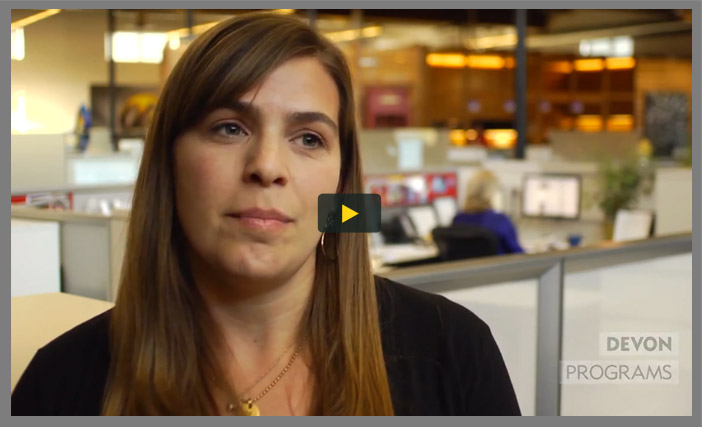
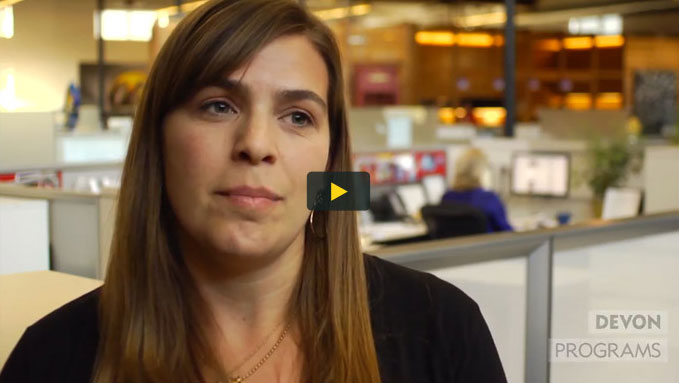
updates to videos

diff --git a/index.html b/index.html
@@ -131,13 +131,12 @@
 								<p><a class="sentinelblackitalic yellow" style="text-decoration: underline;" href="" id="watch-sarahs-video">Watch Sarah's Video</a></p>
 							</div>
 							</span>
-							<div id="sarahs-video-wrap">
-								<div class="video-wrap">
-									<a href="#" class="" id="sarah-video"><img src="img/sarah-thumb.jpg" alt="" /></a>
+								<div id="sarahs-video-wrap">
+									<div class="video-wrap">
+									<a href="#" id="sarah-video"><img src="img/sarah-thumb.jpg" class="video-thumb" alt="" /></a>
 									<div class="video-container" style="display: none;"></div>
 									<h3 class="sentinelblackitalic yellow"><span class="mreavessansbold">SARAH</span><br /><span class="mreavessansreg">two-time breast cancer survivor </span><br /><br />“I was afraid cancer meant I couldn’t have children.”</h3>
 								</div>
-							</div>
 			        	</li>
 
 				        <li class="slide-two black-overlay">
@@ -341,9 +340,13 @@
 				        </li>
 						<li class="slide-two">
 							<div class="relative">
-								<h3 class="sentinelblackitalic fleft"><span class="mreavessansbold caps">Devon</span><br /><span class="mreavessansreg">Programs at the Foundation</span><br /><br />“Cancer happens to the whole person... It happens to your spirit, emotionally. It happens to your mind, mentally. It happens to your families and communities, socially. There have to be ways to help the whole person heal, not just the physical. And that’s what our programs can do.”</h3>
-								<a href="#" class="video-thumb fleft" id="devon-video"><img src="img/devon-thumb.jpg" style="max-width: 100%;" alt="" /></a>
-								<div class="video-container fleft"></div>
+								<h3 class="sentinelblackitalic"><span class="mreavessansbold caps">Devon</span><br /><span class="mreavessansreg">Programs at the Foundation</span><br /><br />“Cancer happens to the whole person... It happens to your spirit, emotionally. It happens to your mind, mentally. It happens to your families and communities, socially. There have to be ways to help the whole person heal, not just the physical. And that’s what our programs can do.”</h3>
+								<div id="devon-video-wrap">
+								<div class="video-wrap">
+									<a href="#" id="devon-video"><img src="img/devon-thumb.jpg" alt="" /></a>
+									<div class="video-container" style="display: none;"></div>
+								</div>
+								</div>
 								<div style="clear: both;"></div>
 							</div>			
 				        </li>
@@ -815,7 +818,7 @@
 				$(this).hide();
 				if (!window.isMobile()) { setTimeout(function() { $('#navigationservices .slide-two .text-block').animate({opacity: 0.3}, 1700); }, 500); }
 				$('#navigationservices .slide-two .video-container').height(videoHeight).width(videoWidth).show();
-			    $('#navigationservices .slide-two .video-container').html('<span id="melissa-close" class="close-white"></span><iframe src="http://www.youtube.com/embed/LsAMPXe8lrI?autohide=1&autoplay=1&controls=2&rel=0&showinfo=0&iv_load_policy=3&theme=light" width="320" height="240" frameborder="0" allowfullscreen="true">').css('background', 'none');
+			    $('#navigationservices .slide-two .video-container').html('<div id="melissa-close" class="close-white"></div><iframe src="http://www.youtube.com/embed/LsAMPXe8lrI?autohide=1&autoplay=1&controls=2&rel=0&showinfo=0&iv_load_policy=3&theme=light" width="320" height="240" frameborder="0" allowfullscreen="true">').css('background', 'none');
 			$('#melissa-close').on('click', function(event) {				
 				$('#navigationservices .slide-two .video-container').html('').hide();
 				$('#melissa-video').show();
@@ -830,13 +833,32 @@
 				$(this).hide();
 				if (!window.isMobile()) { setTimeout(function() { $('#program .slide-two .text-block').animate({opacity: 0.3}, 1700); }, 500); }
 				$('#program .slide-two .video-container').height(videoHeight).width(videoWidth).show();
-			    $('#program .slide-two .video-container').html('<span id="tara-close" class="close-black"></span><iframe src="http://www.youtube.com/embed/LsAMPXe8lrI?autohide=1&autoplay=1&controls=2&rel=0&showinfo=0&iv_load_policy=3&theme=light" width="320" height="240" frameborder="0" allowfullscreen="true">').css('background', 'none');
+			    $('#program .slide-two .video-container').html('<div id="tara-close" class="close-black"></div><iframe src="http://www.youtube.com/embed/CZPPk24x3K4?autohide=1&autoplay=1&controls=2&rel=0&showinfo=0&iv_load_policy=3&theme=light" width="320" height="240" frameborder="0" allowfullscreen="true">').css('background', 'none');
 			$('#tara-close').on('click', function(event) {				
 				$('#program .slide-two .video-container').html('').hide();
 				$('#tara-video').show();
 				if (!window.isMobile()) { setTimeout(function() { $('#program .slide-two .text-block').animate({opacity: 1.0}, 1700); }, 500); }
 			});
 			});
+			
+			
+			$('#devon-video').on('click', function(event) {
+				event.preventDefault();
+				var videoHeight = $('#devon-video img').height();
+				var videoWidth = $('#devon-video img').width();
+				$(this).hide();
+				if (!window.isMobile()) { setTimeout(function() { $('#impact .slide-two h3').animate({opacity: 0.3}, 1700); }, 500); }
+				$('#impact .slide-two .video-container').height(videoHeight).width(videoWidth).show();
+			    $('#impact .slide-two .video-container').html('<div id="devon-close" class="close-black"></div><iframe src="http://www.youtube.com/embed/DKUAj6BZoJQ?autohide=1&autoplay=1&controls=2&rel=0&showinfo=0&iv_load_policy=3&theme=light" width="320" height="240" frameborder="0" allowfullscreen="true">').css('background', 'none');
+			$('#devon-close').on('click', function(event) {				
+				$('#impact .slide-two .video-container').html('').hide();
+				$('#devon-video').show();
+				if (!window.isMobile()) { setTimeout(function() { $('#impact .slide-two h3').animate({opacity: 1.0}, 1700); }, 500); }
+			});
+			});
+			
+			
+			
 			
 			
 			$('#iram-video').on('click', function(event) {
@@ -917,13 +939,7 @@
 			});
 
 			
-			
-			$('#devon-video').on('click', function(event) {
-				event.preventDefault();
-				$(this).hide();
-				$('#impact .slide-two .video-container').show();
-			    $('#impact .slide-two .video-container').html('<iframe src="http://www.youtube.com/embed/DKUAj6BZoJQ?autohide=1&autoplay=1&controls=2&rel=0&showinfo=0&iv_load_policy=3&theme=light" width="320" height="240" frameborder="0" allowfullscreen="true">').css('background', 'none');
-			});
+		
 		</script>
 		
 		<!--Stick Nav on Scroll-->

diff --git a/css/main.css b/css/main.css
@@ -305,16 +305,16 @@ li.fin { width: 60px; }
 #navigationservices { background: #000; }
 #navigationservices .gallery { min-height: 425px; background: #000; }
 #navigationservices .slide-one { background: #000; color: #fff;  }
-#navigationservices .slide-one .text-block { width: 380px; float: right; padding-right: 31.25%; /*400 / 1280*/ }
+#navigationservices .slide-one .text-block { width: 380px; display: inline-block; vertical-align: top; padding-right: 31.25%; /*400 / 1280*/ }
 #navigationservices .slide-one .text-block p { font-size: .8725em; margin-bottom: 15px; }
-#navigationservices .slide-one #proof-people { float: left; margin-top: 88px; margin-bottom: 50px;  max-width: 100%;}
+#navigationservices .slide-one #proof-people {  max-width: 100%; display: inline-block; vertical-align: top; margin-right: 5%; margin-top: 20px; }
 #navigationservices .slide-one #sarah { margin-top: 40px; position: absolute; right: 0; max-width: 100%; }
 #navigationservices .slide-one h1 { font-size: 1.5em; line-height: 1.3; }
 #navigationservices ul.normal li { font-size: .8275em; }
 #navigationservices .slide-one, #navigationservices .slide-two,  #navigationservices .slide-three,  #navigationservices .slide-four, #navigationservices .slide-five { padding-top: 100px; height: 525px; }
 
 #navigationservices .slide-two .text-block { width: 26.5625%; /*340 / 1280*/ padding-left: 5.46875%; /*70 / 1280*/ padding-right: 5.46875%; /*70 / 1280*/ }
-#navigationservices .slide-two .text-block p {font-size: .8725em;}
+#navigationservices .slide-two .text-block p {font-size: .8725em; width: 90%;}
 #navigationservices .slide-two .text-block ul {font-size: 1.5em; line-height: 2;}
 #navigationservices .slide-two h3 { font-size: .8275em; line-height: 1.3; font-weight: normal; text-align: left; margin-top: 30px; width: 185px; }
 #navigationservices .slide-two #melissa-thumb { max-width: 54%; margin-right: 7.8125%; /*100 / 1280*/  }
@@ -365,7 +365,6 @@ li.fin { width: 60px; }
 
 #impact .slide-two .relative { margin: 0 auto; }
 #impact .slide-two h3 { width: 255px; font-size: .8275em; line-height: 1.3; font-weight: normal; text-align: left; position: absolute; bottom: 0; left: 4.859375%; /*75 / 1280*/ }
-#impact .slide-two .video-thumb, #impact .slide-two .video-container { margin-left: 30.46875%; /*390 / 1280*/ }
 #impact .slide-two p { width: 170px; font-size: .875em; margin-bottom: 0; }
 #impact .slide-two,  #impact .slide-three, #impact .slide-four, #impact .slide-five, #impact .slide-six, #impact .slide-seven, #impact .slide-eight { padding-top: 100px; height: 500px; }
 
@@ -426,7 +425,6 @@ li.fin { width: 60px; }
 #global .slide-two h3 .dash{ width: 35px; display: block; float: left; }
 #global .slide-two h3 .name{ width: 280px; display: block; float: left; font-size: .6725em; }
 #global .slide-two h3 .title{ display: block; font-size: .8em; }
-#global .slide-two .video-thumb, #impact .slide-two .video-container { margin-left: 35.9375%; /*460 / 1280*/ }
 #global .slide-two p { width: 170px; font-size: .875em; margin-bottom: 0; }
 
 #global .slide-three { height: 455px; padding-top: 120px }
@@ -761,7 +759,7 @@ li.fin { width: 60px; }
 	.desktop { display: none; }
 	.gallery .gmask { height: auto !important; }
 	.gallery .gmask ul { width: 100% !important; margin-left: 0 !important; }
- 	.gallery .gmask ul li { width: 90% !important; text-align: center; height: auto !important; }
+ 	.gallery .gmask ul li { width: 100% !important; text-align: center; height: auto !important; }
 	.pagination-wrap { display: none !important; }
 	.center-content { width: auto !important; }
 	.fleft { float: none; }
@@ -790,7 +788,7 @@ li.fin { width: 60px; }
 	/*Navigation Services*/
 	#navigationservices .slide-one #sarah { position: relative; margin-top: 0; margin-bottom: 25px; }
 	#navigationservices .slide-one #proof-people { margin-right: 100%; margin-left: -6%; }
-	#navigationservices .slide-one .text-block { width: auto; padding-left: 9.5687332%; padding-right: 9.707447%; float: right; }
+	#navigationservices .slide-one .text-block { width: auto; padding-left: 9.5687332%; padding-right: 9.707447%; }
 	#navigationservices .slide-two .text-block { width: auto; padding: 0; }
 	#navigationservices .slide-two #melissa-thumb { max-width: 100%; margin-right: 0; float: none; }
 	#navigationservices .slide-two h3 { font-size: 1em; line-height: 1.3; font-weight: normal; width: 100%; margin-bottom: 15px; position: relative; bottom: 0; left: 0; }
@@ -826,7 +824,6 @@ li.fin { width: 60px; }
 	#impact .slide-one #invested.text-block { float: none; width: 100%; }
 	#impact .slide-one #impacting.text-block { float: none; width: 100%; margin-top: 0; }
 	#impact .slide-two { padding-top: 0; }
-	#impact .slide-two .video-thumb, #impact .slide-two .video-container { margin: 0; }
 	#impact .slide-two h3 { position: relative; width: auto; text-align: center; float: none; padding-top: 0; margin: 25px 5% 15px 5%; left: 0; font-size: 1em; }
 	#impact .slide-two p { width: auto; text-align: left; float: none; padding-top: 0; margin: 15px 0 0 0; }
 	

diff --git a/css/dave.css b/css/dave.css
@@ -75,12 +75,12 @@ float: none;
 	max-width: 679px;
 }
 
-#iram-video img, #sarah-video img, #melissa-video img, #brian-video img, #tara-video img {
+#iram-video img, #sarah-video img, #melissa-video img, #brian-video img, #tara-video img, #devon-video img {
 border: 8px solid #7d7d7d;	
 width: 74%; max-width: 679px;	
 }
 
-#sarah-video img, #brian-video img, #tara-video img, #melissa-video img  {
+#sarah-video img, #brian-video img, #tara-video img, #melissa-video img, #devon-video img  {
 	width: 100%;
 }
 
@@ -118,6 +118,28 @@ float: none;
 #taras-video-wrap .video-wrap {
 	width: auto;
 }
+#devon-video-wrap {
+	display: inline-block;
+}
+
+#devon-video-wrap .video-wrap {
+	width: auto;
+}
+
+#impact .slide-two h3 {
+width: 17%;
+font-size: .8275em;
+line-height: 1.3;
+font-weight: normal;
+text-align: left;
+position:relative;
+display: inline-block;
+vertical-align: bottom;
+padding-left: 5%;
+padding-right: 6.9%;
+margin-bottom: 20px;
+float: none;
+}
 
 #sarahs-video-wrap .video-container {
 	background-image: url(../img/sarah-thumb.jpg);
@@ -139,6 +161,10 @@ width: 100%;
 
 .video-wrap {
 	display: inline-block; text-align: left; vertical-align: middle; width: 71.649%;
+}
+
+.video-wrap img {
+		max-width: 679px;
 }
 
 
@@ -164,14 +190,15 @@ width: 100%;
 
 @media screen and (max-width: 1023px) {
 	
-#iram-video img, #sarah-video img, #melissa-video img, #brian-video img, #tara-video img { width:100%; }
+#iram-video img, #sarah-video img, #melissa-video img, #brian-video img, #tara-video img, #devon-video img { width:100%; }
 #navigationservices .slide-four h2 { width: 95%; }
 #navigationservices .slide-four h3, #sarahs-video-wrap h3, #brians-video-wrap h3 { width: 100%; }
 
 	.video-wrap {
 	width: 80% !important;
-	margin: auto;
+	margin: auto !important;
 	padding: 0;
+	text-align: center;
 	}
 	.close-white, .close-black  { display: none; }
 	
@@ -186,6 +213,14 @@ width: 100%;
 	
 	#watch-brians-video { display: none; }
 	#isMobile { display: block; }
+
+#impact .slide-two h3 {
+	width: 100%;
+	margin: 0;
+	padding: 30px 0 30px 0;
+	border-top: 1px solid black;
+}
+
 
 }
 
